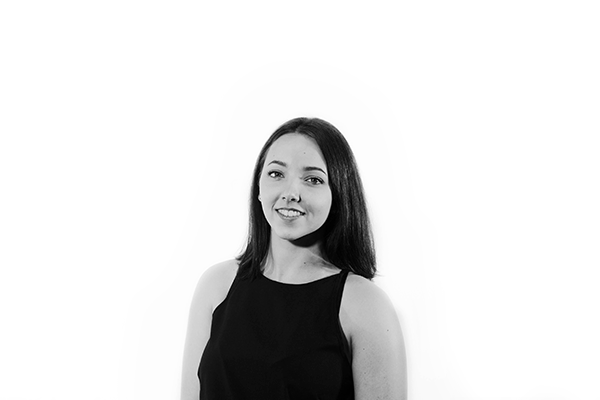
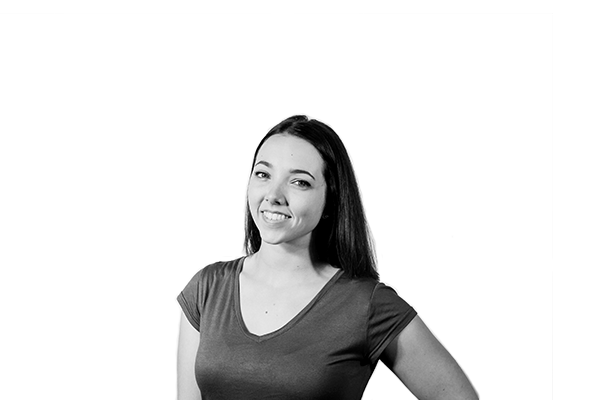
Fixed some... sponsorship issues.

Changed region(s): [[0.27, 0.27, 0.81, 1.0]]

diff --git a/php-partials/landing-content.php b/php-partials/landing-content.php
@@ -24,7 +24,7 @@
   </div>
 
   <div class='landing-croomo'>
-    Proudly brought to you by <a href='http://www.croomo.com/' target='_blank'>Croomo<img src='<?= get_stylesheet_directory_uri() ?>/assets/images/logos/croomo-white.png'></img></a>
+    <a href='https://www.qut.edu.au/' target='_blank'>QUT<img src='<?= get_stylesheet_directory_uri() ?>/assets/images/logos/qut-white.png'></img></a>
   </div>
 
   <div class='scroll-prompt'></div>

diff --git a/index.php b/index.php
@@ -10,7 +10,7 @@ partial('instagram-feed');
 
 partial('graduates-landing');
 
-partial('croomo-landing');
+// partial('croomo-landing');
 
 partial('more-coming-soon');
 
